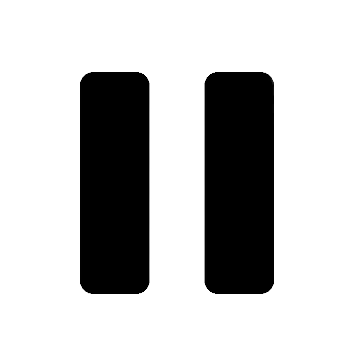
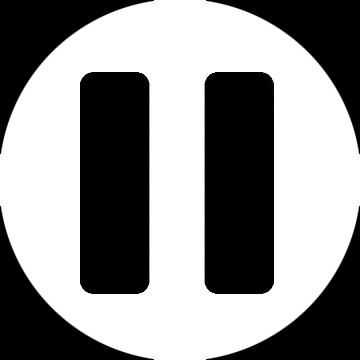
Start of player.py with basic functions

diff --git a/ui.py b/ui.py
@@ -1,27 +1,30 @@
 import tkinter as tk
+from tkinter import ttk
 from tkinter import *
 from PIL import Image, ImageTk
+from player import MusicPlayer
+
+music_player = MusicPlayer()
 
 root = Tk()
 root.title("Spotify alla better")
-
-HEIGHT = root.winfo_screenheight()
-WIDTH = root.winfo_screenwidth()
-root.geometry(f'{WIDTH}x{HEIGHT}')
+root.state("zoomed")
+root.configure(bg = "black")
 
 original_pause = Image.open("Assets/Pause_button.png")
 
-target_width = 40
-aspect_ratio = original_pause.width / original_pause.height
+target_width_pause = 40
+aspect_ratio_pause = original_pause.width / original_pause.height
 
-new_width = target_width
-new_height = int(new_width / aspect_ratio)
+new_width = target_width_pause
+new_height = int(new_width / aspect_ratio_pause)
 resized_image = original_pause.resize((new_width, new_height), Image.LANCZOS)
 
 PAUSE_IMAGE = ImageTk.PhotoImage(resized_image)
-pause = tk.Button(root, bd = 1, cursor = "hand2", 
-                  image = PAUSE_IMAGE, borderwidth = 0, highlightthickness = 0)
-pause.place(x = 940, y = 930)
+pause = tk.Button(root, bd = 0, cursor = "hand2", 
+                  image = PAUSE_IMAGE, borderwidth = 0, 
+                  highlightthickness = 0, relief = "flat", activebackground= "black")
+pause.place(x = 940, y = 915)
 
 original_next = Image.open("Assets/Next_song_button.png")
 
@@ -33,9 +36,9 @@ new_next_height = int(new_next_width / aspect_ratio_next)
 resized_next = original_next.resize((new_next_width, new_next_height), Image.LANCZOS)
 
 NEXT_IMAGE = ImageTk.PhotoImage(resized_next)
-next = tk.Button(root, bd = 1, cursor = "hand2", image = NEXT_IMAGE, borderwidth = 0,
-    highlightthickness = 0)
-next.place(x = 1010, y = 935)
+next = tk.Button(root, bd = 0, cursor = "hand2", image = NEXT_IMAGE, borderwidth = 0,
+    highlightthickness = 0,  relief="flat", activebackground= "black")
+next.place(x = 1010, y = 920)
 
 original_previous = Image.open("Assets/Previous_song_button.png")
 
@@ -44,8 +47,34 @@ new_previous_height = int(new_previous_width / aspect_ratio_next)
 resized_previous = original_previous.resize((new_previous_width, new_previous_height), Image.LANCZOS)
 
 PREVIOUS_IMAGE = ImageTk.PhotoImage(resized_previous)
-previous = tk.Button(root, bd = 1, cursor = "hand2", image = PREVIOUS_IMAGE, borderwidth = 0, 
-    highlightthickness = 0)
-previous.place(x = 880, y = 935)
+previous = tk.Button(root, bd = 0, cursor = "hand2", image = PREVIOUS_IMAGE, borderwidth = 0, 
+    highlightthickness = 0,  relief="flat", activebackground= "black")
+previous.place(x = 880, y = 920)
+
+original_play = Image.open("Assets/play_button.png")
+
+aspect_ratio_play = original_play.width / original_play.height
+
+target_width_play = 50
+
+new_play_width = target_width_play
+new_play_height = int(new_play_width / aspect_ratio_play)
+resized_play = original_play.resize((new_play_width, new_play_height), Image.LANCZOS)
+
+PLAY_IMAGE = ImageTk.PhotoImage(resized_play)
+play = tk.Button(root, bd = 0, cursor = "hand2", image = PLAY_IMAGE, borderwidth = 0, highlightthickness = 0,
+                 relief = "flat", activebackground = "black")
+play.place(x = 935, y = 910)
+
+time_label = Label(root, text = "00:00", background = "black", height = 10, width = 25, 
+                    bd = 0, font = ("Arial", 10), relief = "flat", fg="gray")
+time_label.place(x = 510, y = 910)
+
+end_time_label = Label(root, text = "4:00", background = "black", height = 10, width = 25,
+                        bd = 0, font = ("Arial", 10), relief = "flat", fg = "gray")
+end_time_label.place(x = 1210, y = 910)
+
+length_slider = ttk.Scale(root, from_=0, to=120, orient = "horizontal", length = 655)
+length_slider.place(x = 635, y = 977)
 
 root.mainloop()

diff --git a/player.py b/player.py
@@ -1,0 +1,49 @@
+import pygame
+import time
+
+pygame.mixer.init()
+
+class MusicPlayer:
+    def __init__(self):
+        self.is_playing = False
+        self.current_song = None
+        self.song_list = []
+        self.current_position = 0
+        self.is_paused = False
+    
+    def load_song(self, song_paths):
+        self.song_list = song_paths
+        self.current_song = song_paths[0]
+    
+    def play_song(self):
+        if not self.is_playing:
+            pygame.mixer.music.load(self.current_song)
+            pygame.mixer.music.play()
+            self.is_playing = True
+            self.is_paused = False
+        else: 
+            pygame.mixer.music.unpause()
+    
+    def pause_song(self):
+        if self.is_playing:
+            pygame.mixer.music.pause()
+            self.is_playing = False
+            self.is_paused = True
+    
+    def next_song(self):
+        current_index = self.song_list.index(self.current_song)
+        next_index = (current_index + 1) % len(self.song_list)
+        self.current_song = self.song_list[next_index]
+        self.play_song()
+    
+    def previous_song(self):
+        current_index = self.song_list.index(self.current_song)
+        prev_index = (current_index - 1) % len(self.song_list)
+        self.current_song = self.song_list[prev_index]
+        self.play_song()
+
+    def get_current_position(self):
+        return pygame.mixer.music.get_pos() / 1000 + self.current_position
+    
+    def set_position(self, position):
+        pygame.mixer.music.play(start = position)
